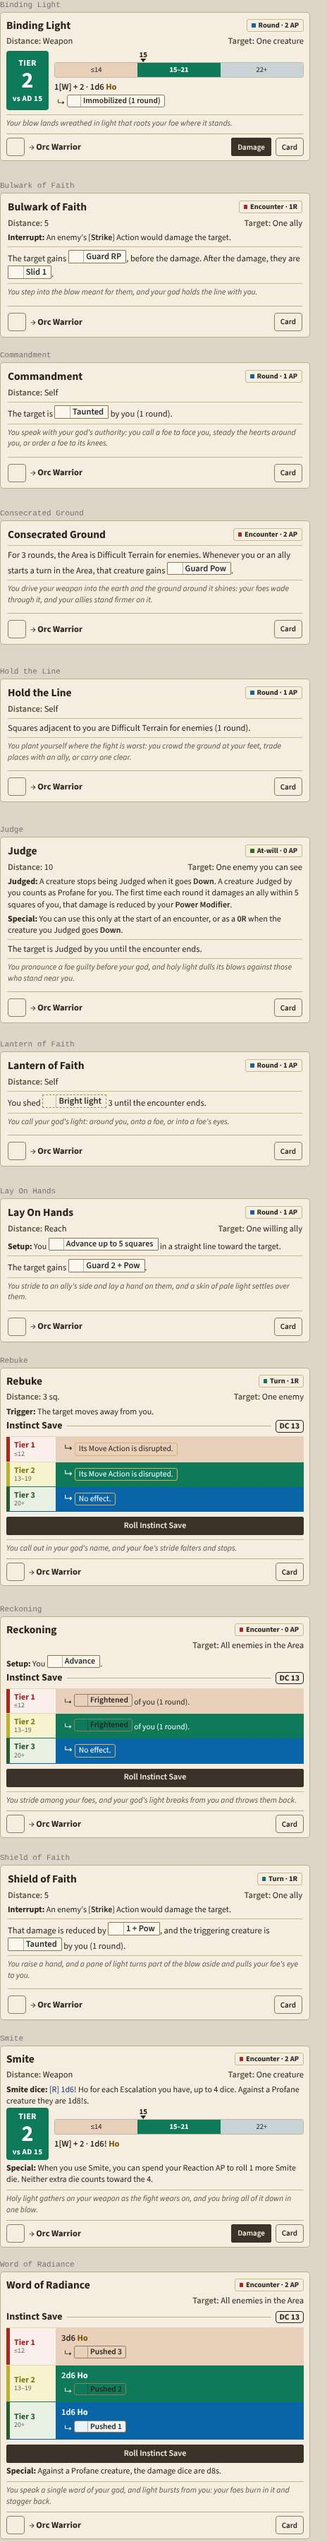
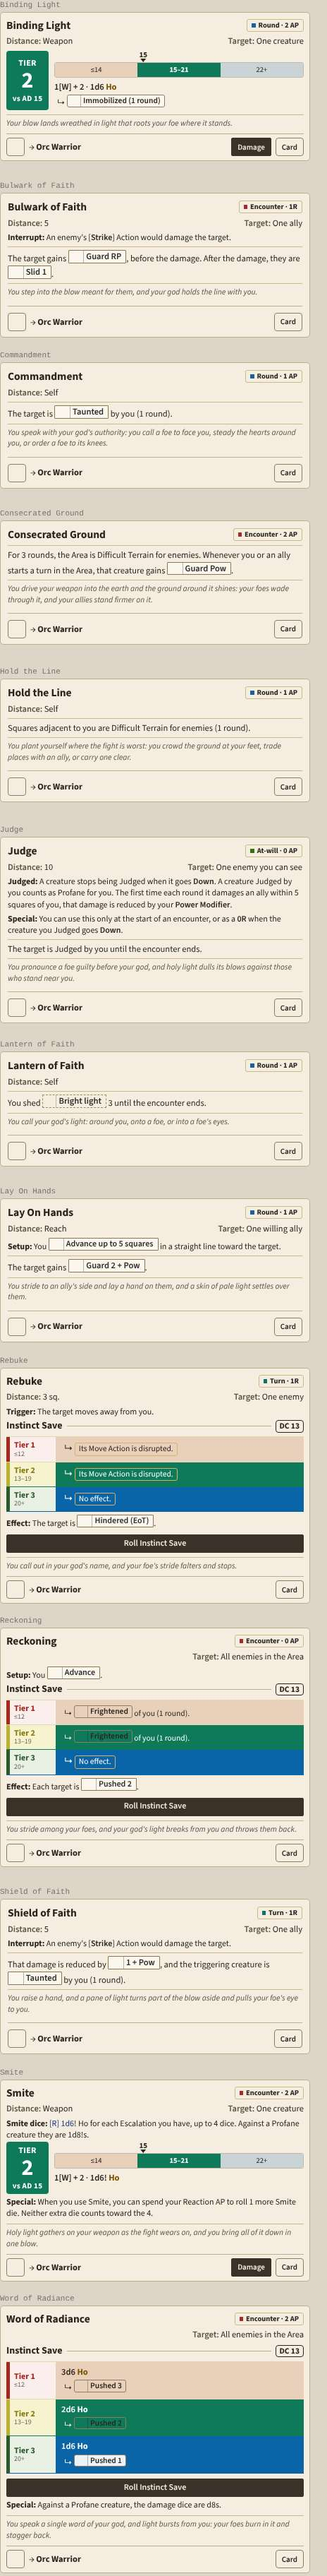
Playtest 5 V1.3: the chat follows a growing card, follow-up lines in the system line's look, state/Reactions/reduction/movement lines removed, the stamp stretches, the Critical's arrow and zone, Bloodied red and the calculated blue on dark, the Save card's Effect line
Claude-Session: https://claude.ai/code/session_0153o4CfCUCLH9G4ipibAUr7

diff --git a/foundry/twod12/styles/system.css b/foundry/twod12/styles/system.css
@@ -4060,9 +4060,10 @@ a.twod12-inline i.areaic.line { width: 1.9em; height: 0.55em; vertical-align: 0.
 .twod12.chat.startstack .ss-skipped { font-size: 10px; opacity: .8; }
 .twod12.chat.startstack .ss-end { padding: 6px 9px 7px; font-size: 12px; }
 /* v0.0.347 (Lucas, playtest 4, Step 3): an Action's follow-ups inside its card, under a thin line (followup.mjs) */
-.twod12.chat.follow { margin: 5px 2px 0; padding-top: 4px; border-top: 1px solid rgba(110, 90, 58, .35); display: flex; flex-direction: column; gap: 2px; }
-.twod12.chat.follow .fl-line { display: flex; align-items: baseline; gap: 6px; font-size: 12px; line-height: 1.35; color: #2c2a26; }
-.twod12.chat.follow .fl-line > i { flex: none; font-size: 10.5px; color: #6b5a3a; }
+/* v0.0.418 (Lucas, playtest 5, C2: "nicely subtle but not the system's style"): each follow-up is the system's line (sysLine's look), inside its card */
+.twod12.chat.follow { margin: 5px 2px 0; display: flex; flex-direction: column; gap: 3px; }
+.twod12.chat.follow .fl-line { display: flex; align-items: baseline; gap: 7px; padding: 4px 9px; border: 1px solid #c8b48a; border-radius: 5px; background: #f4ecdc; font-size: 12.5px; line-height: 1.35; color: #2c2a26; }
+.twod12.chat.follow .fl-line > i { flex: none; font-size: 11px; color: #6b5a3a; }
 .twod12.chat.follow .fl-line small { opacity: .75; }
 /* v0.0.347 (Lucas, playtest 4, Step 3): granted uses as a condensed list of small buttons ("Weapon Attack: Ogre Chieftain"), no "Granted Action:" label */
 .twod12 .grantrow.grantlist .gbtns { display: flex; flex-direction: column; align-items: stretch; gap: 3px; width: 100%; }
@@ -4718,7 +4719,9 @@ a.twod12-inline:hover, a.twod12-inline:hover .ti-name, a.twod12-inline .ti-name:
 .twod12.chat.cc .cc-foot.cc-dfoot > .cc-trow .cc-adjrow { flex-basis: 100%; }
 .twod12.chat.cc .cc-pools { color: var(--cc-ink); }
 /* v0.0.389 (Lucas: "without a target looks weird"): the stamp keeps its own height beside the damage (it stretched down the whole card) */
-.twod12.chat.cc .cc-attack.withdmg .cc-body { align-items: start; }
+/* v0.0.418 (Lucas, playtest 5, C7: "the box doesn't grow with the card when damage is rolled"): with a target it stretches to its row again; only
+   the card with no target keeps the stamp's own height */
+.twod12.chat.cc .cc-attack.withdmg.notgt .cc-body { align-items: start; }
 
 /* ==== v0.0.390 (PACK HUD2; Lucas: "All your picks"; foundry/mockups/hud2/index.html): the HUD remade. The party strip when nothing is selected,
    the bar for a token (the identity column, tabs over columns by Frequency, the side panel), folded to one line; the marks: AP squares, the

diff --git a/foundry/twod12/styles/theme.css b/foundry/twod12/styles/theme.css
@@ -796,7 +796,7 @@
 :where(:scope) .twod12.chat .tline.grantrow .cc-used, :is(.twod12.chat):where(:scope) .tline.grantrow .cc-used { color: #8fd69b; }
 :where(:scope) .twod12.chat .cc-critl, :is(.twod12.chat):where(:scope) .cc-critl { color: #8db8f0; }
 :where(:scope) .twod12.chat.startstack .ss-it.now, :is(.twod12.chat.startstack):where(:scope) .ss-it.now { box-shadow: inset 3px 0 0 #c9a24a; }
-:where(:scope) .twod12.chat.follow .fl-line, :is(.twod12.chat.follow):where(:scope) .fl-line { color: #ece3cf; }
+:where(:scope) .twod12.chat.follow .fl-line, :is(.twod12.chat.follow):where(:scope) .fl-line { border: 1px solid #7a683f; background: #1f1c18; color: #ece3cf; }
 :where(:scope) .twod12.chat.follow .fl-line > i, :is(.twod12.chat.follow):where(:scope) .fl-line > i { color: #b3a68e; }
 :where(:scope) .twod12.chat.rx2.rxused .rxu-txt, :is(.twod12.chat.rx2.rxused):where(:scope) .rxu-txt { color: #f1e6c8; }
 :where(:scope) .twod12.chat.rx2.rxused .rxu-txt b, :is(.twod12.chat.rx2.rxused):where(:scope) .rxu-txt b { color: #ecdcae; }
@@ -1558,6 +1558,16 @@
 }
 
 /* ==== by hand ==== */
+
+/* ---- v0.0.418 (Lucas, playtest 5, C11): Bloodied on the dark chat card in the Vigor red (the swap made it almost pink) */
+@scope (.theme-dark) to (.themed) {
+:scope .twod12.chat.cc .cc-state.bloodied, :is(.twod12.chat.cc):scope .cc-state.bloodied { background: #d0564f; }
+}
+
+/* ---- v0.0.418 (Lucas, playtest 5, B4): a calculated chip's blue (#1a3fb0) has a dark variant: the Boon blue */
+@scope (.theme-dark) to (.themed) {
+:scope a.twod12-inline.calc .ti-name, :is(a.twod12-inline.calc):scope .ti-name, :scope a.twod12-inline.calc, :is(a.twod12-inline.calc):scope, :scope .application.twod12.twod12-actor .acard a.twod12-inline.calc .ti-name, :is(.application.twod12.twod12-actor):scope .acard a.twod12-inline.calc .ti-name, :scope .application.twod12.twod12-actor .acard a.twod12-inline.calc, :is(.application.twod12.twod12-actor):scope .acard a.twod12-inline.calc, :scope .application.twod12.twod12-actor .twod12.chat a.twod12-inline.calc .ti-name, :is(.application.twod12.twod12-actor):scope .twod12.chat a.twod12-inline.calc .ti-name { color: #8db8f0; }
+}
 
 /* ---- by hand: the Action card (the frame, the cost stamps, the Tier table's head, the book links) */
 @scope (.theme-dark) to (.themed) {
